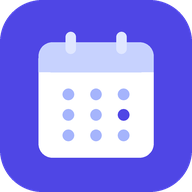
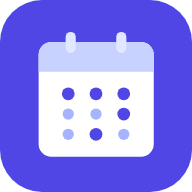
Ícone do 7Líder: pontos do calendário formam um 7
Claude-Session: https://claude.ai/code/session_01L2xVhfddAQxkz8XLwk6PMU

diff --git a/scripts/gerar-icones.js b/scripts/gerar-icones.js
@@ -1,0 +1,52 @@
+// Gera os ícones do 7Líder: calendário com os pontos formando um "7".
+const { chromium } = require("playwright");
+// Uso: node scripts/gerar-icones.js public/icones
+const out = process.argv[2];
+const ESCURO = "#4f46e5", CLARO = "#a5b4fc", TOPO = "#c7d2fe", ARGOLA = "#e0e7ff";
+const SETE = new Set(["0,0", "1,0", "2,0", "2,1", "1,2"]); // (coluna,linha)
+
+// Desenho do calendário num quadro 512x512 (sem fundo).
+function calendario({ selo = false } = {}) {
+  const corpo = selo ? "#fff" : "#fff";
+  let s = "";
+  if (!selo) {
+    s += `<rect x="103" y="112" width="307" height="306" rx="34" fill="${corpo}"/>`;
+    s += `<path d="M137 112h239a34 34 0 0 1 34 34v45H103v-45a34 34 0 0 1 34-34z" fill="${TOPO}"/>`;
+    s += `<rect x="175" y="85" width="27" height="56" rx="13.5" fill="${ARGOLA}"/><rect x="310" y="85" width="27" height="56" rx="13.5" fill="${ARGOLA}"/>`;
+  } else {
+    s += `<mask id="m"><rect width="512" height="512" fill="#fff"/>`;
+  }
+  const xs = [182, 256, 330], ys = [250, 304, 358];
+  for (let c = 0; c < 3; c++)
+    for (let l = 0; l < 3; l++) {
+      const no7 = SETE.has(`${c},${l}`);
+      if (selo) { if (no7) s += `<circle cx="${xs[c]}" cy="${ys[l]}" r="20" fill="#000"/>`; }
+      else s += `<circle cx="${xs[c]}" cy="${ys[l]}" r="${no7 ? 17 : 15}" fill="${no7 ? ESCURO : CLARO}"/>`;
+    }
+  if (selo) {
+    s += `</mask><g mask="url(#m)" fill="#fff"><rect x="103" y="112" width="307" height="306" rx="34"/>`;
+    s += `<rect x="175" y="70" width="27" height="60" rx="13.5"/><rect x="310" y="70" width="27" height="60" rx="13.5"/></g>`;
+  }
+  return s;
+}
+const svg = (conteudo) => `<svg xmlns="http://www.w3.org/2000/svg" viewBox="0 0 512 512" width="512" height="512">${conteudo}</svg>`;
+const escala = (f, c) => `<g transform="translate(${256 * (1 - f)} ${256 * (1 - f)}) scale(${f})">${c}</g>`;
+const ICONES = [
+  // [arquivo, tamanho, svg]
+  ["icone-512.png", 512, svg(`<rect width="512" height="512" rx="112" fill="${ESCURO}"/>${calendario()}`)],
+  ["icone-192.png", 192, svg(`<rect width="512" height="512" rx="112" fill="${ESCURO}"/>${calendario()}`)],
+  ["icone-notificacao-96.png", 96, svg(`<rect width="512" height="512" rx="112" fill="${ESCURO}"/>${calendario()}`)],
+  ["icone-maskable-512.png", 512, svg(`<rect width="512" height="512" fill="${ESCURO}"/>${escala(0.75, calendario())}`)],
+  ["apple-touch-icon.png", 180, svg(`<rect width="512" height="512" fill="${ESCURO}"/>${escala(0.9, calendario())}`)],
+  ["selo-96.png", 96, svg(calendario({ selo: true }))],
+];
+(async () => {
+  const b = await chromium.launch();
+  const p = await b.newPage();
+  for (const [nome, tam, s] of ICONES) {
+    await p.setViewportSize({ width: tam, height: tam });
+    await p.setContent(`<html><body style="margin:0;background:transparent">${s.replace('width="512" height="512">', `width="${tam}" height="${tam}">`)}</body></html>`);
+    await p.screenshot({ path: `${out}/${nome}`, omitBackground: true, clip: { x: 0, y: 0, width: tam, height: tam } });
+  }
+  await b.close();
+})();
